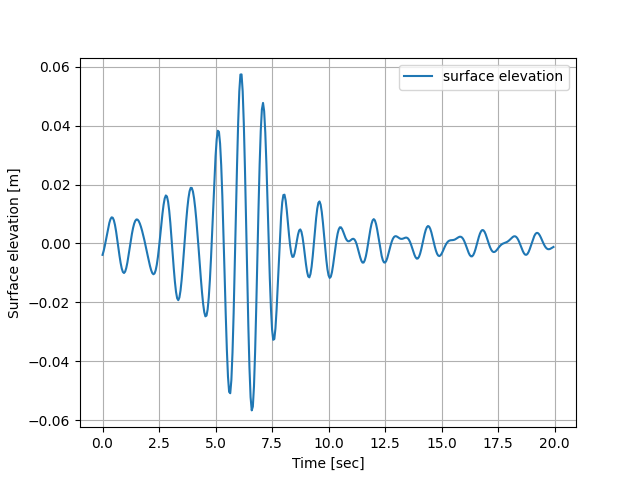
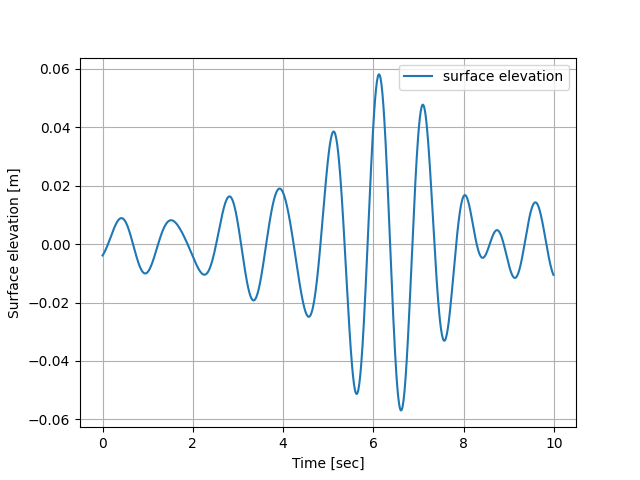
fixed a bug related to trilinear interpolation, causing wrong spiky interp for velocity components.

diff --git a/src/VTKreader.cpp b/src/VTKreader.cpp
@@ -270,7 +270,7 @@ void VTKreader::loadInit(string path, const char* fname) {
 				seabed = pNew[1];
 				dataset1->GetPoint(i, nl - 1, 0, pNew);
 				welev = pNew[1];
-				betah[k * nx  + i] = welev == seabed ? double(k)/nl : 1 + z2s(z, welev, -seabed);
+				betah[k * nx  + i] = welev == seabed ? 0. : 1 + z2s(z, welev, -seabed);
 				//cout << "seabed:" << seabed << " welev: " << welev << " betah:" << betah[k * nx  + i]<< endl;
 			}
 		}
@@ -292,7 +292,7 @@ void VTKreader::loadInit(string path, const char* fname) {
 					dataset1->GetPoint(i, j, nl - 1, pNew);
 					welev = pNew[2];
 					
-					betah[k * ny * nx + j * nx + i] = welev == seabed ? double(k)/nl : 1. + z2s(z, welev, -seabed);
+					betah[k * ny * nx + j * nx + i] = welev == seabed ? 0. : 1. + z2s(z, welev, -seabed);
 					//cout << "seabed:" << seabed << " welev: " << welev << " z: " << z << " betah:" << betah[k * ny * nx + j * nx + i] << endl;
 				}
 			}
@@ -501,26 +501,27 @@ double* VTKreader::trilinear_interpolation(double* res, double tpt, double xpt, 
 	dataset0->GetPoint(clip(nxp + 1, 0, nx - 1), clip(nyp + 1, 0, ny - 1), 0, pNew);
 	C11 = pNew[2];
 
-	dataset1->GetPoint(nxp, nyp, 0, pNew);
+	// No point in calculating seabed twice, since seabed is fixed in time.
+	/*dataset1->GetPoint(nxp, nyp, 0, pNew);
 	D00 = pNew[2];
 	dataset1->GetPoint(nxp, clip(nyp + 1, 0, ny - 1), 0, pNew);
 	D01 = pNew[2];
 	dataset1->GetPoint(clip(nxp + 1, 0, nx - 1), nyp, 0, pNew);
 	D10 = pNew[2];
 	dataset1->GetPoint(clip(nxp + 1, 0, nx - 1), clip(nyp + 1, 0, ny - 1), 0, pNew);
-	D11 = pNew[2];
+	D11 = pNew[2];*/
 
 	C0 = C00 * (1. - xd) + C10 * xd;
 	C1 = C01 * (1. - xd) + C11 * xd;
-	D0 = D00 * (1. - xd) + D10 * xd;
-	D1 = D01 * (1. - xd) + D11 * xd;
+	//D0 = D00 * (1. - xd) + D10 * xd;
+	//D1 = D01 * (1. - xd) + D11 * xd;
 
 	double zb0 = C0 * (1. - yd) + C1 * yd;
-	double zb1 = D0 * (1. - yd) + D1 * yd;
+	//double zb1 = D0 * (1. - yd) + D1 * yd;
 
 	// set seabed elevation for point
-	res[1] =  zb0 * (1. - td) + zb1 * td;
-
+	//res[1] =  zb0 * (1. - td) + zb1 * td;
+	res[1] = zb0;
 
 	//std::cout << "dy: " << dy << ", nyp: " << nyp << ", ypt: " << ypt << std::endl;
 
@@ -585,35 +586,35 @@ double* VTKreader::trilinear_interpolation(double* res, double tpt, double xpt, 
 
 	// Trilinear interpolation.
 	double D000[24];
-	temp = U1->GetTuple3(nsp0 * ny * nx + nyp * nx + nxp);
+	temp = U1->GetTuple3(nsp1 * ny * nx + nyp * nx + nxp);
 	D000[0] = temp[0];
 	D000[1] = temp[1];
 	D000[2] = temp[2];
-	temp = U1->GetTuple3(nsp0 * ny * nx + nyp * nx + clip(nxp + 1, 0, nx - 1));
+	temp = U1->GetTuple3(nsp1 * ny * nx + nyp * nx + clip(nxp + 1, 0, nx - 1));
 	D000[3] = temp[0];
 	D000[4] = temp[1];
 	D000[5] = temp[2];
-	temp = U1->GetTuple3(nsp0 * ny * nx + clip(nyp + 1, 0, ny - 1) * nx + nxp);
+	temp = U1->GetTuple3(nsp1 * ny * nx + clip(nyp + 1, 0, ny - 1) * nx + nxp);
 	D000[6] = temp[0];
 	D000[7] = temp[1];
 	D000[8] = temp[2];
-	temp = U1->GetTuple3(nsp0 * ny * nx + clip(nyp + 1, 0, ny - 1) * nx + clip(nxp + 1, 0, nx - 1));
+	temp = U1->GetTuple3(nsp1 * ny * nx + clip(nyp + 1, 0, ny - 1) * nx + clip(nxp + 1, 0, nx - 1));
 	D000[9] = temp[0];
 	D000[10] = temp[1];
 	D000[11] = temp[2];
-	temp = U1->GetTuple3(clip(nsp0 + 1, 0, nl - 1) * ny * nx + nyp * nx + nxp);
+	temp = U1->GetTuple3(clip(nsp1 + 1, 0, nl - 1) * ny * nx + nyp * nx + nxp);
 	D000[12] = temp[0];
 	D000[13] = temp[1];
 	D000[14] = temp[2];
-	temp = U1->GetTuple3(clip(nsp0 + 1, 0, nl - 1) * ny * nx + nyp * nx + clip(nxp + 1, 0, nx - 1));
+	temp = U1->GetTuple3(clip(nsp1 + 1, 0, nl - 1) * ny * nx + nyp * nx + clip(nxp + 1, 0, nx - 1));
 	D000[15] = temp[0];
 	D000[16] = temp[1];
 	D000[17] = temp[2];
-	temp = U1->GetTuple3(clip(nsp0 + 1, 0, nl - 1) * ny * nx + clip(nyp + 1, 0, ny - 1) * nx + nxp);
+	temp = U1->GetTuple3(clip(nsp1 + 1, 0, nl - 1) * ny * nx + clip(nyp + 1, 0, ny - 1) * nx + nxp);
 	D000[18] = temp[0];
 	D000[19] = temp[1];
 	D000[20] = temp[2];
-	temp = U1->GetTuple3(clip(nsp0 + 1, 0, nl - 1) * ny * nx + clip(nyp + 1, 0, ny - 1) * nx + clip(nxp + 1, 0, nx - 1));
+	temp = U1->GetTuple3(clip(nsp1 + 1, 0, nl - 1) * ny * nx + clip(nyp + 1, 0, ny - 1) * nx + clip(nxp + 1, 0, nx - 1));
 	D000[21] = temp[0];
 	D000[22] = temp[1];
 	D000[23] = temp[2];
@@ -666,9 +667,9 @@ double* VTKreader::trilinear_interpolation(double* res, double tpt, double xpt, 
 	CC0[0] = CC00[0] * (1. - yd) + CC01[0] * yd;
 	CC0[1] = CC00[1] * (1. - yd) + CC01[1] * yd;
 	CC0[2] = CC00[2] * (1. - yd) + CC01[2] * yd;
-	CC1[0] = CC11[0] * (1. - yd) + CC11[0] * yd;
-	CC1[1] = CC11[1] * (1. - yd) + CC11[1] * yd;
-	CC1[2] = CC11[2] * (1. - yd) + CC11[2] * yd;
+	CC1[0] = CC10[0] * (1. - yd) + CC11[0] * yd;
+	CC1[1] = CC10[1] * (1. - yd) + CC11[1] * yd;
+	CC1[2] = CC10[2] * (1. - yd) + CC11[2] * yd;
 
 	//cout << "ulow: " << CC0[0]  << endl;
 	//cout << "uhigh: " << CC1[0] << endl;

diff --git a/examples/python/case4_vts_reader/case4.py b/examples/python/case4_vts_reader/case4.py
@@ -17,7 +17,7 @@ temp = os.path.realpath(temp)
 temp = os.path.dirname(temp)
 
 # we load the shared library 
-mydll = cdll.LoadLibrary("../../../builds/linux64/libCFDwavemaker_openmp.so")     
+mydll = cdll.LoadLibrary("../../../builds/linux64/libCFDwavemaker_all_openmp.so")     
 
 # and define the functions which CFDwavemaker.h tells us are in the library
 
@@ -64,10 +64,10 @@ init_dll(mydll)
 
 x = 4.8
 y = 0.23
-z = -0.05
+z = -10.0
 
 
-time = np.arange(0,10,0.01)
+time = np.arange(0,8,0.01)
 
 elev = []
 u = []
@@ -100,7 +100,19 @@ plt.legend()
 plt.grid(True)
 plt.savefig("./result_uvw.png")
 
+plt.clf()
+ug = np.gradient(u, time)
+vg = np.gradient(v, time)
+wg = np.gradient(w, time)
+plt.plot(time,ug, label='ug')
+plt.plot(time,vg, label='vg')
+plt.plot(time,wg, label='wg')
+plt.xlabel('Time [sec]')
+plt.ylabel('particle velocity gradient [m/s^2]')
+plt.legend()
+plt.grid(True)
+plt.savefig("./result_uvw_gradient.png")
+
 
 # all done. remember to clean up after us.
 clean_up(mydll)
-
